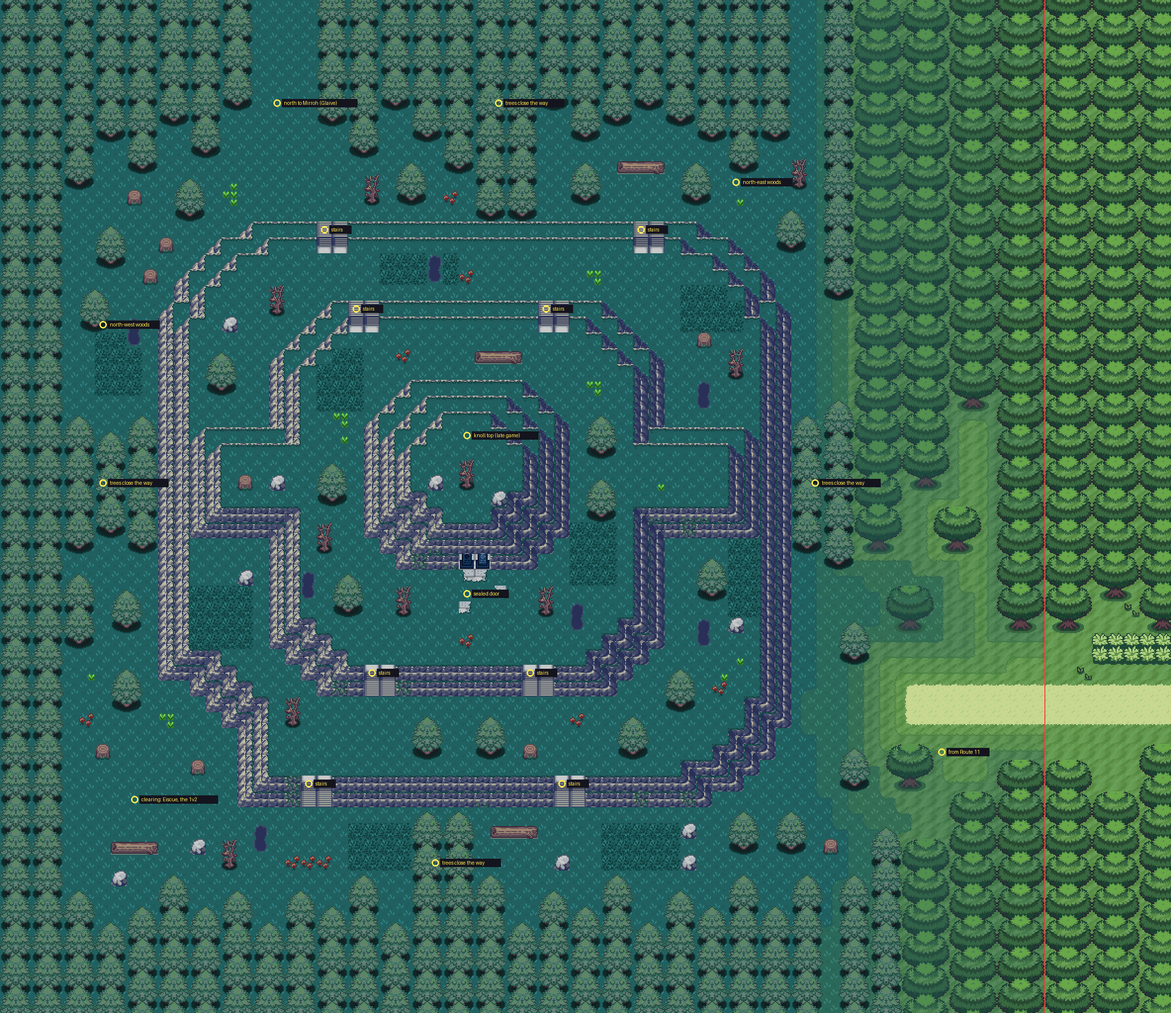
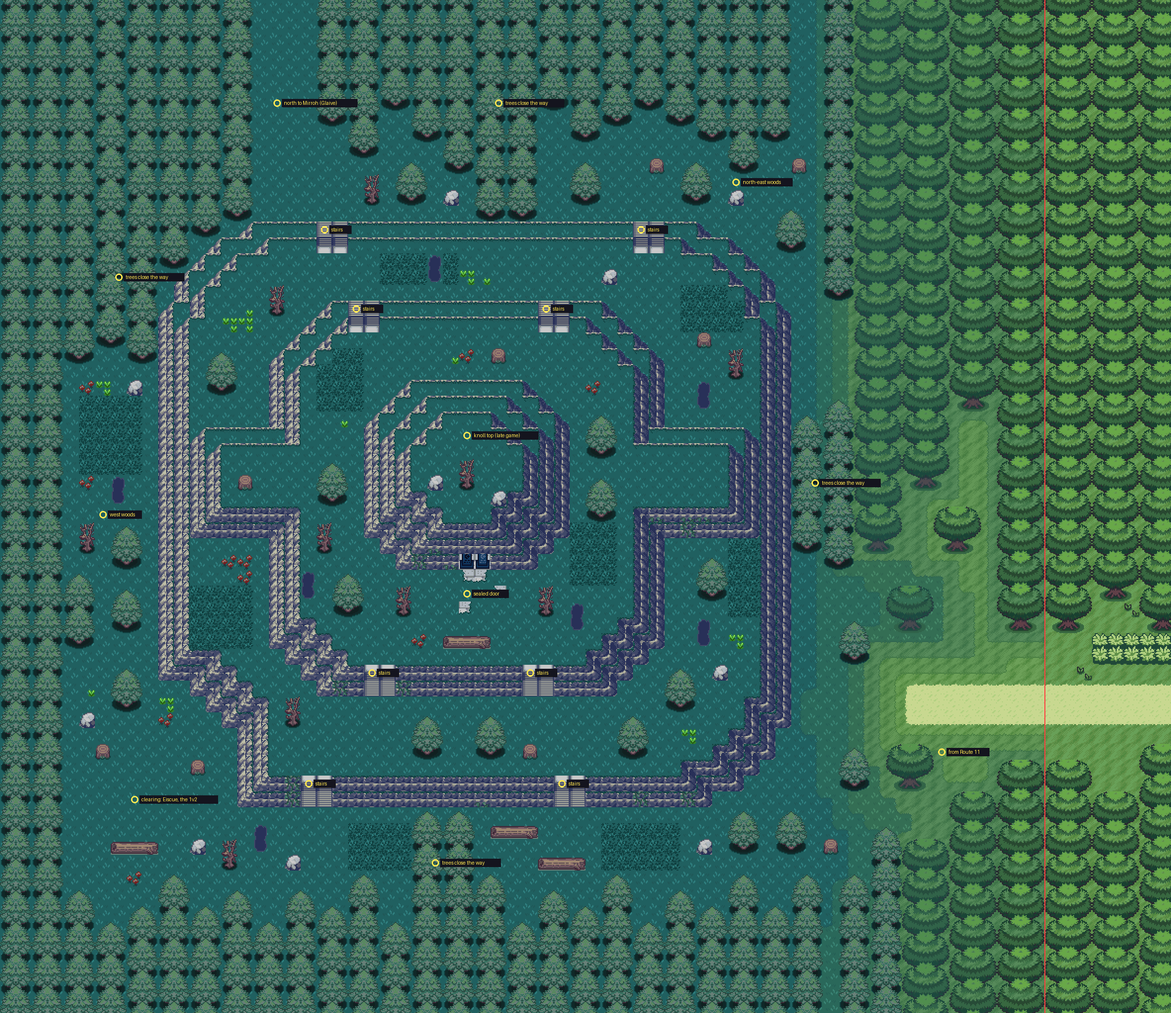
Hollow Hill mock v3: the north-west corner closed by trees
Per the user: the woods close the north-west corner (instead of halfway down the west
side), so the west woods and the clearing are one section and the north exit is
reached only over the hill. Checks still pass.

Claude-Session: https://claude.ai/code/session_01FHXnfqnedTHLf5QFbB3MCU

diff --git a/tools/art/hollowhill/hh_mock.py b/tools/art/hollowhill/hh_mock.py
@@ -393,7 +393,8 @@ def compose(seed=5):
     # west: two columns of Odyssey's pines the whole height
     pine_column(M, 0, 0, H - 1, 'wall'); pine_column(M, 2, 0, H - 1, 'wall')
     # north: pines hanging from the top, the gap for the way north to Mirroh (columns 16-19)
-    for x0, yb in ((4, 11), (6, 8), (8, 10), (10, 7), (12, 9), (14, 6), (20, 7), (22, 9), (24, 6), (26, 8), (28, 10),
+    for x0, yb in ((4, 22), (6, 21), (8, 22), (10, 16), (12, 14), (14, 13),     # (closing the north-west corner)
+                    (20, 7), (22, 9), (24, 6), (26, 8), (28, 10),
                    (30, 13), (32, 13), (34, 6), (36, 8), (38, 7), (40, 6), (42, 7), (44, 8), (46, 10), (48, 8)):
         pine_column(M, x0, 0, yb, 'north')
     # south: pines rising from the bottom
@@ -405,11 +406,11 @@ def compose(seed=5):
     pine_column(M, 4, 36, 40, 'stack')
     # the forest floor closes off into sections where the woods meet the hill's cliffs: from one section to the
     # next the way is always up into the hill (west, north, east and south)
-    for x0, yt, yb in ((4, 26, 34), (6, 27, 33), (8, 26, 34), (50, 26, 34), (52, 25, 35)):
+    for x0, yt, yb in ((50, 26, 34), (52, 25, 35)):
         pine_column(M, x0, yt, yb, 'stack')
     # --- the void pits, red eyes watching
     # --- burrow mouths (scenery now; secrets later): Odyssey's hollow, 314 over 31c
-    for x, y in ((8, 20), (27, 16), (44, 24), (36, 38), (19, 36), (16, 52), (14, 42), (44, 39)):
+    for x, y in ((7, 30), (27, 16), (44, 24), (36, 38), (19, 36), (16, 52), (14, 42), (44, 39)):
         try: thing(M, x, y, [[0x314], [0x31c]], 'thing:burrow')
         except AssertionError: print('no room for a burrow at', x, y)
     # --- the knoll's forecourt: broken slabs before the door
@@ -423,7 +424,7 @@ def compose(seed=5):
     # and never closing the way between the key spots
     near(M, pine, 2, [(53, 39), (54, 48), (50, 16)])    # Odyssey's pines in the mixed band
     # tall grass (the wild Pokemon's): Odyssey's dark tufts, in patches
-    for x0, y0, x1, y1 in ((6, 21, 8, 24), (12, 37, 15, 40), (38, 52, 42, 54), (22, 52, 26, 54), (43, 18, 46, 20),
+    for x0, y0, x1, y1 in ((5, 25, 8, 29), (12, 37, 15, 40), (38, 52, 42, 54), (22, 52, 26, 54), (43, 18, 46, 20),
                            (24, 16, 28, 17), (36, 33, 38, 36), (20, 22, 22, 25), (46, 34, 47, 38)):
         for y in range(y0, y1 + 1):
             for x in range(x0, x1 + 1):
@@ -474,9 +475,9 @@ def fog(img, seed=3, amount=0.42):
     return (img * (1 - n) + fogc * n).astype(np.uint8)
 
 LABELS = [((17, 6), 'north to Mirroh (Glaive)'), ((8, 50), 'clearing: Eiscue, the 1v2'), ((59, 47), 'from Route 11'),
-          ((29, 37), 'sealed door'), ((29, 27), 'knoll top (late game)'), ((6, 30), 'trees close the way'),
+          ((29, 37), 'sealed door'), ((29, 27), 'knoll top (late game)'), ((7, 17), 'trees close the way'),
           ((51, 30), 'trees close the way'), ((31, 6), 'trees close the way'), ((27, 54), 'trees close the way'),
-          ((46, 11), 'north-east woods'), ((6, 20), 'north-west woods')] + \
+          ((46, 11), 'north-east woods'), ((6, 32), 'west woods')] + \
          [((x, y), 'stairs') for x, y, _ in STAIRS.values()]
 
 def annotate(img, scale=2):
